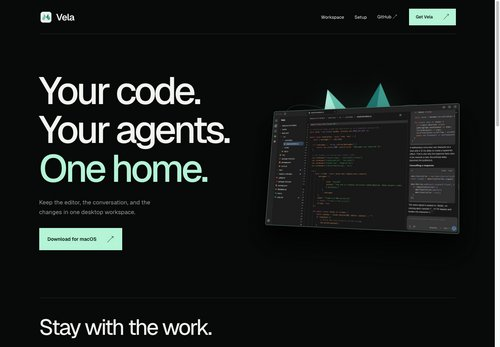
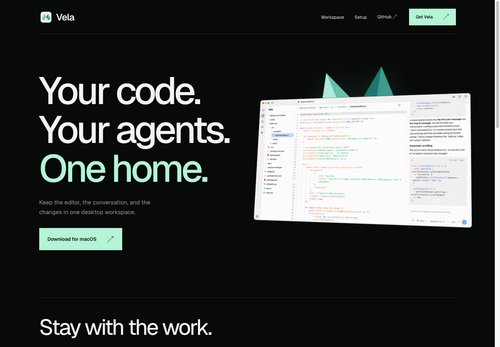
design: enlarge reference hero and refresh product imagery
Use the current light and dark Vela screenshots in Cloudroom reference #1: the light image anchors the tilted hero and the dark image becomes the unframed large product image. Scale the hero up on desktop, lift the folded mark, and update verification and gallery previews for the new composition.

Changed region(s): [[0.51, 0.2017, 0.96, 0.6916], [0.99, 0.3458, 1.0, 0.3746]]

diff --git a/design/vela-product/cloudroom/style.css b/design/vela-product/cloudroom/style.css
@@ -1,7 +1,7 @@
 @font-face{font-family:Geist;src:url(../assets/geist.woff2) format('woff2');font-weight:100 900;font-display:swap}
 *{box-sizing:border-box}html{scroll-behavior:smooth;scroll-padding-top:30px}body{--bg:#080909;--fg:#f4f5f1;--accent:#b3f6d6;--muted:#9a9e9a;--line:#2a2e2b;margin:0;background:var(--bg);color:var(--fg);font-family:Geist,Arial,sans-serif;-webkit-font-smoothing:antialiased}h1,h2,h3,p,figure{margin:0}a{color:inherit;text-decoration:none}button,select{font:inherit}button,select,summary{cursor:pointer}button{color:inherit}a:focus-visible,button:focus-visible,summary:focus-visible,select:focus-visible{outline:3px solid var(--accent);outline-offset:5px}h1{font-size:clamp(60px,7.2vw,104px);letter-spacing:-.065em;line-height:1.02;font-weight:500;text-wrap:balance}h1 em,h2 em{font-style:normal;color:var(--accent)}h2{font-size:clamp(36px,4.4vw,64px);line-height:1.08;letter-spacing:-.055em;font-weight:450;text-wrap:balance}h3{font-size:25px;font-weight:450;letter-spacing:-.035em}p{line-height:1.65;color:var(--muted)}button:hover,.button:hover{filter:brightness(1.12)}a.text-link:hover{text-decoration:underline;text-underline-offset:6px}.button{background:var(--accent);color:#0c1811;min-height:52px;display:inline-flex;align-items:center;justify-content:space-between;gap:30px;padding:16px 23px;font-size:14px;font-weight:600;border:1px solid var(--accent);border-radius:0}.button span{font-size:20px;font-weight:400}.hero-copy>p{font-size:17px;max-width:420px;margin:28px 0 32px}.site-header{max-width:1280px;margin:auto;padding:25px 40px;display:flex;align-items:center;justify-content:space-between;gap:35px;position:relative;z-index:5}.site-header:after{content:'';position:absolute;bottom:0;left:40px;right:40px;border-bottom:1px solid var(--line)}.brand{display:flex;align-items:center;gap:10px;font-size:27px;font-weight:600;letter-spacing:-1.3px}.brand img{width:39px;height:39px;display:block;border-radius:9px}.site-header nav{display:flex;align-items:center;gap:30px;margin-left:auto;font-size:13px}.site-header>.button{min-height:44px;padding:10px 18px;font-size:12px;gap:30px}.site-header>.button span{font-size:17px}main{max-width:1280px;padding:0 40px;margin:auto;min-width:0}.app-shot{min-width:0;margin:0;position:relative}.app-shot img{display:block;width:100%;height:auto;max-width:100%;border:1px solid #343b36;border-radius:7px;background:#222}.vela-icon{display:block;width:100%;height:auto}.vela-mark{display:block;width:100%;height:auto;overflow:visible}.feature-row{display:grid;grid-template-columns:repeat(3,minmax(0,1fr));gap:45px;margin:110px 0}.feature-row article{border-top:1px solid var(--line);padding-top:28px;min-width:0}.feature-row h2{font-size:27px;line-height:1.15;letter-spacing:-.04em;margin-bottom:18px}.feature-row p{font-size:14px;max-width:340px}.section{display:grid;grid-template-columns:1fr 1fr;gap:70px;align-items:center;margin:110px 0}.text-link{display:inline-flex;align-items:center;gap:10px;color:var(--accent);font-size:14px;margin-top:25px}.questions{display:grid;grid-template-columns:.9fr 1.1fr;gap:85px;border-top:1px solid var(--line);padding:75px 0;margin-top:100px}.questions h2{font-size:48px;max-width:350px}.questions details{border-bottom:1px solid var(--line);padding:22px 0}.questions details:first-child{padding-top:0}.questions summary{font-size:17px;list-style:none;display:flex;justify-content:space-between;gap:20px}.questions summary:after{content:'+';color:var(--accent);font-size:22px;line-height:1}.questions details[open] summary:after{content:'−'}.questions summary::-webkit-details-marker{display:none}.questions details p{font-size:14px;margin-top:20px;max-width:500px}.release-close{padding:80px 0;border-block:1px solid var(--line);margin-top:70px;display:flex;justify-content:space-between;align-items:center;gap:40px}.release-close h2{max-width:700px;font-size:54px}.site-footer{max-width:1280px;margin:auto;padding:35px 40px 120px;display:flex;justify-content:space-between;align-items:center;gap:40px}.site-footer nav{display:flex;gap:30px;font-size:13px;color:var(--muted)}.skip{position:fixed;left:20px;top:-100px;padding:15px;background:var(--accent);color:#111;z-index:100}.skip:focus{top:15px}.sr-only{position:absolute;width:1px;height:1px;padding:0;margin:-1px;overflow:hidden;clip:rect(0,0,0,0);white-space:nowrap;border:0}.design-controls{position:fixed;bottom:18px;left:50%;transform:translateX(-50%);z-index:25;max-width:calc(100% - 24px);display:flex;gap:4px;align-items:center;border:1px solid #464d46;border-radius:8px;background:#171c19ed;padding:6px;box-shadow:0 10px 30px #0008;backdrop-filter:blur(15px);font-size:11px}.design-controls button{border:0;background:transparent;padding:9px;min-height:34px;white-space:nowrap;border-radius:4px}.design-controls button:hover{background:#333d34}.design-controls select{color:#e8f1e9;background:#242d25;border:0;border-radius:4px;padding:9px;width:220px;min-width:0;font-size:11px}.design-controls #previous,.design-controls #next{font-size:17px;padding:6px 12px}.design-controls #hide-controls{font-size:19px}.design-controls[hidden]{display:none}#restore-controls{position:fixed;bottom:15px;right:18px;border:1px solid #566358;background:#111914;color:#dce8dd;padding:10px 14px;border-radius:5px;z-index:25;font-size:11px}#restore-controls[hidden]{display:none}dialog{width:min(1180px,calc(100% - 30px));max-height:88vh;border:1px solid #4d5b4e;padding:30px;border-radius:10px;background:#0d130f;color:#f0f5ec}dialog::backdrop{background:#000c;backdrop-filter:blur(8px)}.gallery-heading{display:flex;justify-content:space-between;align-items:center;margin-bottom:25px}.gallery-heading h2{font-size:36px}.gallery-heading button{border:1px solid #455346;background:transparent;width:40px;height:40px;border-radius:50%;font-size:25px}#gallery-grid{display:grid;grid-template-columns:repeat(3,minmax(0,1fr));gap:16px}.gallery-card{display:block;min-width:0;border:1px solid #2e3b30;border-radius:4px;overflow:hidden;background:#141c15}.gallery-card:hover{border-color:#a3d4b2}.gallery-card[aria-current]{outline:2px solid var(--accent);outline-offset:-2px}.gallery-card img{display:block;width:100%;height:auto;aspect-ratio:1.44;background:#080909;object-fit:cover;object-position:top}.gallery-card h3{font-size:15px;padding:18px;font-weight:450;letter-spacing:-.4px}
 /* Closest to the reference: a direct statement and a floating desktop. */
-.home-hero{display:grid;grid-template-columns:1fr 1fr;gap:70px;align-items:center;min-height:760px;padding:80px 0 110px}.home-hero h1{font-size:clamp(68px,7.7vw,110px)}.home-hero .hero-copy>p{max-width:360px}.home-art{position:relative;min-width:0;height:490px;isolation:isolate;display:flex;align-items:center;justify-content:center}.home-art>.vela-mark{position:absolute;width:240px;top:20px;left:calc(50% - 120px);filter:drop-shadow(0 10px 40px #71eac92b);transform:rotate(-7deg)}.home-screen{position:absolute;bottom:50px;width:100%;transform:perspective(1100px) rotateY(-16deg) rotateX(9deg);box-shadow:0 45px 70px #000b}.home-screen .app-shot img{border-color:#618c73;border-radius:5px}.home-orbit{position:absolute;border:1px solid #325a42;border-radius:50%;width:500px;height:180px;left:50%;top:50%;transform:translate(-50%,-50%) rotate(-35deg);z-index:-1}.orbit-two{transform:translate(-50%,-50%) rotate(35deg);border-color:#254232}.home-product{padding-top:50px;border-top:1px solid var(--line)}.home-product>p{font-size:17px;max-width:500px;margin:25px 0 45px}.home-product>.app-shot{padding:12px;background:#131a15;border:1px solid #304336}
+.home-hero{display:grid;grid-template-columns:1fr 1fr;gap:70px;align-items:center;min-height:760px;padding:80px 0 110px}.home-hero h1{font-size:clamp(68px,7.7vw,110px)}.home-hero .hero-copy>p{max-width:360px}.home-art{position:relative;min-width:0;height:490px;isolation:isolate;display:flex;align-items:center;justify-content:center}.home-art>.vela-mark{position:absolute;width:250px;top:-28px;left:calc(50% - 125px);filter:drop-shadow(0 10px 40px #71eac92b);transform:rotate(-7deg)}.home-screen{position:absolute;bottom:50px;width:112%;transform:perspective(1100px) rotateY(-12deg) rotateX(7deg)}.home-screen .app-shot img{border:0;border-radius:0;background:transparent}.home-orbit{position:absolute;border:1px solid #325a42;border-radius:50%;width:500px;height:180px;left:50%;top:50%;transform:translate(-50%,-50%) rotate(-35deg);z-index:-1}.orbit-two{transform:translate(-50%,-50%) rotate(35deg);border-color:#254232}.home-product{padding-top:50px;border-top:1px solid var(--line)}.home-product>p{font-size:17px;max-width:500px;margin:25px 0 45px}.home-product>.app-shot img{border:0;border-radius:0;background:none}
 /* Broad, centered and image-led, with space around a single large window. */
 .d2 .wide-hero{text-align:center;padding-top:100px}.wide-hero h1{font-size:clamp(60px,6.6vw,95px)}.wide-hero .hero-copy>p{margin:27px auto 32px;max-width:510px}.wide-screen{margin-top:70px;padding:10px;background:#15261d;border:1px solid #294b36;box-shadow:0 0 100px -20px #53bd8a22}.wide-story{display:grid;grid-template-columns:1.2fr 1fr;gap:100px;margin:120px 0}.wide-story h2{font-size:54px}.wide-story p{font-size:17px}.d2 .feature-row{gap:70px}.d2 .questions{grid-template-columns:1fr 1fr}
 /* An expansive heading sits above an asymmetric product and brand block. */
@@ -12,6 +12,7 @@
 .space-hero{display:grid;grid-template-columns:1fr 1fr;gap:70px;align-items:center;min-height:740px;padding:80px 0}.space-hero h1{font-size:clamp(66px,7.4vw,106px)}.space-art{position:relative;aspect-ratio:1;isolation:isolate;perspective:1000px}.fold-orbit{position:absolute;width:80%;top:12%;left:10%;transform:rotate(-12deg);opacity:.17}.fold-orbit .vela-mark path{fill:none;stroke:#82e6c4;stroke-width:.45}.fold-1{transform:scale(.85) translateY(20px) rotate(-12deg);opacity:.25}.fold-2{transform:scale(.7) translateY(45px) rotate(-12deg);opacity:.4}.fold-3{transform:scale(.55) translateY(85px) rotate(-12deg);opacity:.6}.fold-4{transform:scale(.4) translateY(150px) rotate(-12deg);opacity:.85}.fold-5{transform:scale(.25) translateY(290px) rotate(-12deg);opacity:1}.fold-5 .vela-mark path{fill:#b3f6d6;stroke:none}.space-product{padding-top:30px}.space-product>div{display:flex;gap:80px;align-items:end;justify-content:space-between;margin-bottom:45px}.space-product h2{max-width:650px}.space-product p{max-width:320px;font-size:16px}.space-product .app-shot{padding:20px;background:#131d16;border-radius:9px}.space-story{display:grid;grid-template-columns:1fr 1fr;gap:100px;margin:120px 0}.space-story p{font-size:17px}.space-story p+p{margin-top:25px}
 @media(max-width:1000px){.site-header{gap:22px}.site-header nav{gap:22px}.home-hero{gap:30px;min-height:660px}.home-hero h1{font-size:76px}.home-art{height:400px}.home-art>.vela-mark{width:180px;left:calc(50% - 90px)}.home-orbit{width:380px}.home-screen{bottom:40px}.place-hero{gap:60px}.place-hero h1{font-size:100px}.place-copy>p{font-size:17px}.place-product-copy{gap:35px}.close-title{gap:45px}.close-title h1{font-size:85px}.close-stage{grid-template-columns:1fr 150px;gap:20px}.close-mark{padding:25px}.space-hero{gap:30px;min-height:650px}.space-hero h1{font-size:78px}.space-product>div{gap:35px}.wide-story,.close-story,.space-story{gap:50px}.wide-story h2{font-size:46px}.questions{gap:50px}.questions h2{font-size:40px}.feature-row{gap:28px}.release-close h2{font-size:44px}}
 @media(max-width:700px){h1{font-size:clamp(48px,11.5vw,72px);letter-spacing:-.055em}h2{font-size:36px}main{padding:0 22px}.site-header{padding:20px 22px;gap:18px}.site-header:after{left:22px;right:22px}.brand{font-size:23px;gap:8px}.brand img{width:32px;height:32px}.site-header nav{gap:15px;font-size:11px}.site-header nav a:first-child{display:none}.site-header>.button{display:none}.button{font-size:13px;min-height:49px;padding:14px 19px;gap:25px}.hero-copy>p{font-size:15px;max-width:100%;margin:25px 0 30px}.feature-row{grid-template-columns:1fr;gap:35px;margin:65px 0}.feature-row h2{font-size:26px;margin-bottom:15px}.feature-row p{font-size:14px;max-width:100%}.feature-row article{padding-top:22px}.section{grid-template-columns:1fr;gap:35px;margin:70px 0}.questions{grid-template-columns:1fr;gap:35px;padding:45px 0;margin-top:65px}.questions h2{font-size:37px}.questions summary{font-size:15px}.questions details p{font-size:13px}.release-close{display:block;padding:45px 0;margin-top:50px}.release-close h2{font-size:39px;margin-bottom:30px}.site-footer{padding:30px 22px 120px;gap:25px;flex-wrap:wrap}.site-footer nav{gap:20px;font-size:12px}.app-shot img{border-radius:4px}.design-controls{bottom:12px;width:calc(100% - 24px);max-width:480px;gap:2px}.design-controls select{width:100%;flex:1;font-size:10px;padding:8px 4px}.design-controls button{font-size:10px;padding:7px}.design-controls #previous,.design-controls #next{padding:7px;font-size:16px}.design-controls #hide-controls{padding:6px;font-size:17px}dialog{padding:20px}.gallery-heading h2{font-size:30px}#gallery-grid{grid-template-columns:repeat(2,minmax(0,1fr));gap:10px}.gallery-card h3{font-size:13px;padding:12px;overflow-wrap:anywhere}
-.home-hero{grid-template-columns:1fr;gap:20px;padding:65px 0 35px;min-height:0}.home-hero h1{font-size:clamp(60px,14vw,84px)}.home-hero .hero-copy>p{max-width:330px}.home-art{height:350px;max-width:450px;width:100%;margin:auto;overflow:clip}.home-art>.vela-mark{width:145px;top:5px;left:calc(50% - 72px)}.home-screen{width:88%;bottom:35px}.home-orbit{width:310px;height:120px;top:45%}.home-product{padding-top:35px}.home-product>p{font-size:15px;margin:22px 0 30px}.home-product>.app-shot{padding:7px}.d2 .wide-hero{padding-top:65px}.wide-hero h1{font-size:clamp(46px,10.7vw,72px)}.wide-hero .hero-copy>p{font-size:15px;margin:25px auto 30px}.wide-screen{margin-top:45px;padding:6px}.wide-story{grid-template-columns:1fr;gap:25px;margin:65px 0}.wide-story h2{font-size:37px}.wide-story p{font-size:15px}.d2 .feature-row{gap:35px}.d2 .questions{grid-template-columns:1fr}.close-hero{padding-top:65px}.close-title{display:block;margin-bottom:35px}.close-title h1{font-size:clamp(58px,13vw,85px)}.close-title>div{max-width:100%;margin-top:28px}.close-title p{font-size:15px;max-width:330px}.close-stage{grid-template-columns:minmax(0,1fr) 65px;gap:12px}.close-mark{padding:12px}.close-story{grid-template-columns:1fr;gap:25px;margin:65px 0}.close-story h2{font-size:38px}.close-story p{font-size:15px}.d3 .feature-row{margin:55px 0;padding:30px 0;gap:30px}.place-hero{grid-template-columns:1fr;gap:35px;padding:55px 0 50px}.place-hero>div:first-child>.vela-mark{width:60px;margin-bottom:30px}.place-hero h1{font-size:clamp(76px,18vw,114px)}.place-copy>p{font-size:17px;max-width:340px;margin-bottom:30px}.place-product{padding:12px}.place-product-copy{grid-template-columns:1fr;gap:20px;margin-top:30px;padding:0 5px 10px}.place-product h2{font-size:32px}.place-product p{font-size:14px}.d4 .feature-row{gap:35px}.space-hero{grid-template-columns:1fr;gap:15px;padding:60px 0 15px;min-height:0}.space-hero h1{font-size:clamp(59px,13vw,84px)}.space-art{max-width:370px;width:100%;margin:auto}.space-product>div{display:block;margin-bottom:30px}.space-product h2{font-size:36px}.space-product p{max-width:100%;font-size:15px;margin-top:25px}.space-product .app-shot{padding:8px}.space-story{grid-template-columns:1fr;gap:25px;margin:70px 0}.space-story p{font-size:15px}}
+.home-hero{grid-template-columns:1fr;gap:20px;padding:65px 0 35px;min-height:0}.home-hero h1{font-size:clamp(60px,14vw,84px)}.home-hero .hero-copy>p{max-width:330px}.home-art{height:350px;max-width:450px;width:100%;margin:auto;overflow:clip}.home-art>.vela-mark{width:145px;top:5px;left:calc(50% - 72px)}.home-screen{width:88%;bottom:35px}.home-orbit{width:310px;height:120px;top:45%}.home-product{padding-top:35px}.home-product>p{font-size:15px;margin:22px 0 30px}.d2 .wide-hero{padding-top:65px}.wide-hero h1{font-size:clamp(46px,10.7vw,72px)}.wide-hero .hero-copy>p{font-size:15px;margin:25px auto 30px}.wide-screen{margin-top:45px;padding:6px}.wide-story{grid-template-columns:1fr;gap:25px;margin:65px 0}.wide-story h2{font-size:37px}.wide-story p{font-size:15px}.d2 .feature-row{gap:35px}.d2 .questions{grid-template-columns:1fr}.close-hero{padding-top:65px}.close-title{display:block;margin-bottom:35px}.close-title h1{font-size:clamp(58px,13vw,85px)}.close-title>div{max-width:100%;margin-top:28px}.close-title p{font-size:15px;max-width:330px}.close-stage{grid-template-columns:minmax(0,1fr) 65px;gap:12px}.close-mark{padding:12px}.close-story{grid-template-columns:1fr;gap:25px;margin:65px 0}.close-story h2{font-size:38px}.close-story p{font-size:15px}.d3 .feature-row{margin:55px 0;padding:30px 0;gap:30px}.place-hero{grid-template-columns:1fr;gap:35px;padding:55px 0 50px}.place-hero>div:first-child>.vela-mark{width:60px;margin-bottom:30px}.place-hero h1{font-size:clamp(76px,18vw,114px)}.place-copy>p{font-size:17px;max-width:340px;margin-bottom:30px}.place-product{padding:12px}.place-product-copy{grid-template-columns:1fr;gap:20px;margin-top:30px;padding:0 5px 10px}.place-product h2{font-size:32px}.place-product p{font-size:14px}.d4 .feature-row{gap:35px}.space-hero{grid-template-columns:1fr;gap:15px;padding:60px 0 15px;min-height:0}.space-hero h1{font-size:clamp(59px,13vw,84px)}.space-art{max-width:370px;width:100%;margin:auto}.space-product>div{display:block;margin-bottom:30px}.space-product h2{font-size:36px}.space-product p{max-width:100%;font-size:15px;margin-top:25px}.space-product .app-shot{padding:8px}.space-story{grid-template-columns:1fr;gap:25px;margin:70px 0}.space-story p{font-size:15px}}
 @media(max-width:420px){#gallery-grid{grid-template-columns:1fr}.gallery-card h3{font-size:17px;padding:16px}.design-controls select{font-size:9px}.design-controls #browse{font-size:9px;padding:6px}.design-controls #previous,.design-controls #next{padding:6px}.site-header nav{font-size:11px}.home-art{height:290px}.home-screen{bottom:20px}.home-art>.vela-mark{width:125px;left:calc(50% - 62px)}.home-orbit{width:270px}.close-title h1{font-size:55px}.close-stage{grid-template-columns:1fr}.close-mark{height:90px;padding:16px}.close-mark>.vela-mark{width:80px}.place-product h2{font-size:28px}}
 @media(prefers-reduced-motion:reduce){html{scroll-behavior:auto}*,*:before,*:after{animation:none!important;transition:none!important}}
+@media(min-width:1310px){.home-screen{width:118%}}

diff --git a/design/vela-product/cloudroom/fragments.js b/design/vela-product/cloudroom/fragments.js
@@ -2,7 +2,30 @@
   const repository = 'https://github.com/Tsohnle95/vela';
   const assets = window.velaAssetBase || '../assets';
   const cta = (text = 'Download for macOS') => `<a class="button" href="${repository}/releases" target="_blank" rel="noopener">${text}<span aria-hidden="true">↗</span></a>`;
-  const shot = (classes = '') => `<figure class="app-shot ${classes}"><img src="${assets}/vela.png" width="1420" height="887" alt="Vela showing a repository, JavaScript editor, and OpenCode conversation side by side."></figure>`;
+  const shots = {
+    default: {
+      file: 'vela',
+      width: 1420,
+      height: 887,
+      alt: 'Vela showing a repository, JavaScript editor, and OpenCode conversation side by side.',
+    },
+    light: {
+      file: 'vela-light',
+      width: 1619,
+      height: 971,
+      alt: 'Vela in a light theme, with the file tree, a chat controller in the editor, and an OpenCode conversation in one window.',
+    },
+    dark: {
+      file: 'vela-dark',
+      width: 1619,
+      height: 971,
+      alt: 'Vela in a dark theme, with the file tree, a chat controller in the editor, and an OpenCode conversation in one window.',
+    },
+  };
+  const shot = (classes = '', variant = 'default') => {
+    const { file, width, height, alt } = shots[variant];
+    return `<figure class="app-shot ${classes}"><img src="${assets}/${file}.png" width="${width}" height="${height}" alt="${alt}"></figure>`;
+  };
   const icon = (classes = '') => `<img class="vela-icon ${classes}" src="${assets}/icon.png" width="1024" height="1024" alt="Vela">`;
   const mark = (classes = '') => `<svg class="vela-mark ${classes}" viewBox="0 0 200 160" aria-hidden="true"><path fill="#adedd9" d="M36 8 100 92 31 154 0 139Z"/><path fill="#62c4ad" d="M36 8 100 92 31 154 67 120Z"/><path fill="#b5f4dc" d="m164 8 36 131-31 15-69-62Z"/><path fill="#389d8e" d="m164 8 36 131-31 15-36-34Z"/><path fill="#18786f" d="m164 8-31 112-33-28Z"/></svg>`;
   const copy = (title, description = 'Your editor, OpenCode agents, terminal, and live diffs. Together in one desktop workspace.') => `<div class="hero-copy"><h1>${title}</h1><p>${description}</p>${cta()}</div>`;

diff --git a/design/vela-product/cloudroom/directions-a.js b/design/vela-product/cloudroom/directions-a.js
@@ -4,7 +4,7 @@
   window.velaDirections.push(
     {
       id: 1, name: 'Home for the work',
-      body: () => `<section class="home-hero">${copy('Your code.<br> Your agents.<br> <em>One home.</em>', 'Keep the editor, the conversation, and the changes in one desktop workspace.')}<div class="home-art"><div class="home-orbit orbit-one"></div><div class="home-orbit orbit-two"></div>${mark()}<div class="home-screen">${shot()}</div></div></section><section class="home-product"><h2>Stay with the work.</h2><p>Open a repository. Give OpenCode a task. Follow the changes beside your code.</p>${shot()}</section>${featureRow()}${faq()}`
+      body: () => `<section class="home-hero">${copy('Your code.<br> Your agents.<br> <em>One home.</em>', 'Keep the editor, the conversation, and the changes in one desktop workspace.')}<div class="home-art"><div class="home-orbit orbit-one"></div><div class="home-orbit orbit-two"></div>${mark()}<div class="home-screen">${shot('window-shot', 'light')}</div></div></section><section class="home-product"><h2>Stay with the work.</h2><p>Open a repository. Give OpenCode a task. Follow the changes beside your code.</p>${shot('window-shot', 'dark')}</section>${featureRow()}${faq()}`
     },
     {
       id: 2, name: 'Everything in view',

diff --git a/design/vela-product/cloudroom/iterations/README.md b/design/vela-product/cloudroom/iterations/README.md
@@ -4,10 +4,10 @@ Open [the collection](index.html) directly from disk. It contains **30 new
 iterations** and retains **#1 and #2 as references**. The earlier 20-design
 collection remains available from the directory.
 
-- **Reference #1** is the exact original saved design from commit `7c0a724b`,
-  including its original title sizing, spacing, image perspective, frames,
-  folded mark, and orbits. **Reference #2** retains the corrected title sizing
-  and screenshot cleanup.
+- **Reference #1** keeps its original layout, title sizing, spacing, folded
+  mark, and orbits from commit `7c0a724b`, updated with the current light and
+  dark product screenshots and a larger hero image. **Reference #2** retains
+  the corrected title sizing and screenshot cleanup.
 - **1.01–1.15** are new split-layout iterations of #1 (URL IDs 21–35).
 - **2.01–2.15** are new centered, wide-product iterations of #2 (IDs 36–50).
 - Use Left/Right outside interactive controls to browse. The iteration
@@ -29,21 +29,23 @@ The actual Cloudroom headline scale was checked in its public stylesheet:
 The shared refinements use an 80px desktop cap, weight 550, line-height 1.04,
 and -4px tracking, with the source’s 1080px, 800px, and 640px responsive
 breakpoints. Individual iterations do not override the primary type scale.
-Reference #1 is intentionally exempt so it stays identical to the original.
+Reference #1 keeps its original 110px desktop cap.
 
-Screenshots are the unmodified real Vela image. Reference #1 retains its exact
-original image frames, perspective, folded mark, and orbit artwork. The 30 new
-iterations and reference #2 keep their unframed screenshot treatment. Their
-presentation effects are neutral elevation, spacing, and occasional slight
-perspective. Palettes change page colors and actions; they do not recolor
-the screenshot or the existing app icon. The previous prohibition on
-decorative labels, annotations, and design commentary still applies.
+Screenshots are unmodified real Vela product images. Reference #1 uses the
+current light and dark screenshots, with its hero image enlarged and unframed;
+its folded mark and orbit artwork remain. The 30 new iterations and reference
+#2 keep their corrected unframed screenshot treatment. Their presentation
+effects are neutral elevation, spacing, and occasional slight perspective.
+Palettes change page colors and actions; they do not recolor the screenshot or
+the existing app icon. The previous prohibition on decorative labels,
+annotations, and design commentary still applies.
 
 `palettes.js` owns the color tokens. `model.js` owns shared factual fragments
 and the two references. `layouts-a/b/c` own the 30 compositions. `app.js` owns
 selection, independent palette choices, keyboard navigation, and history.
-The parent `refinements.css` explicitly excludes #1 from later refinements, so
-the original #1 URL and its palette-enabled reference use the original styles.
+The parent `refinements.css` explicitly excludes #1 from the later type and
+screenshot refinements, so the #1 URL and its palette-enabled reference keep
+their own layout styles.
 
 Run `node design/vela-product/cloudroom/iterations/verify.mjs` under Node
 22.23.2 from the repository root. Add `--refresh-previews` to explicitly
@@ -52,4 +54,6 @@ The check otherwise writes only into a fresh temporary directory and uses
 an isolated Electron profile. See [QA.md](QA.md).
 
 `node design/vela-product/cloudroom/iterations/verify-reference.mjs` independently
-extracts the original from Git and checks #1 pixel-for-pixel at six widths.
+extracts the original from Git and checks that #1 keeps its original type and
+spacing at six widths, uses the current light hero and dark product screenshots,
+and renders the secondary image without a frame.

diff --git a/design/vela-product/cloudroom/iterations/QA.md b/design/vela-product/cloudroom/iterations/QA.md
@@ -1,15 +1,16 @@
 # Verification
 
-Checked October 23, 2026 under Node 22.23.2 with isolated Electron profiles.
+Checked October 25, 2026 under Node 22.23.2 with isolated Electron profiles.
 
 - 30 new iterations: 15 from #1 and 15 from #2, plus both retained references.
 - All 32 pages rendered at 1440, 1024, 768, 390, and 320 CSS pixels: 160
   layouts checked for horizontal overflow, offscreen headlines/actions/images,
   image decoding, and the absence of frames/added artwork in the 30 new
-  iterations. Reference #1 deliberately retains all of its original styling.
+  iterations. Reference #1 deliberately keeps its original layout and type
+  with the current screenshots.
 - Headline size, weight, and line-height checked against Cloudroom’s measured
   responsive scale at each width for the 30 new iterations and reference #2.
-  Reference #1 restores its original 110px desktop cap as part of exact parity.
+  Reference #1 keeps its original 110px desktop cap.
 - All 32 designs exercised with all 24 palettes: 768 page/palette combinations.
   Page foreground/background and primary action colors are checked against
   the selected tokens. Every palette meets 4.5:1 for body/description/button
@@ -26,11 +27,12 @@ Checked October 23, 2026 under Node 22.23.2 with isolated Electron profiles.
   families. All directory thumbnails come from actual renders.
 - `verify-reference.mjs` extracts #1 from original commit `7c0a724b` and renders
   it alongside the current reference in fresh windows at 1904, 1440, 1024, 768,
-  390, and 320 pixels. All six comparisons report identical geometry and zero
-  differing pixels. Fresh windows avoid transient resize-time image resampling.
-- The original #1 URL uses the same original styles; #2 retains its corrected
-  80px desktop cap and unframed images. Palette controls remain separate from
-  the product rendering during the original/current image comparison.
+  390, and 320 pixels. All six comparisons report identical headline, hero, and
+  art geometry, the current light and dark screenshots, and no secondary-image
+  frame. Fresh windows avoid transient resize-time image resampling.
+- The #1 URL keeps its original layout styles with the current imagery; #2
+  retains its corrected 80px desktop cap and unframed images. Palette controls
+  remain separate from the product rendering during the reference comparison.
 
 Normal history/reload checks run before the deliberately dense palette matrix.
 This keeps normal navigation verification separate from Chromium’s history

diff --git a/design/vela-product/cloudroom/README.md b/design/vela-product/cloudroom/README.md
@@ -1,8 +1,8 @@
 # Vela release directions
 
-Reference #1 exactly reproduces its original design from commit `7c0a724b`,
-including the original type, perspective, spacing, artwork, and frames.
-Reference #2 and the [thirty further iterations with 24 palettes](iterations/index.html)
+Reference #1 keeps its original layout and type from commit `7c0a724b`,
+updated with the current light and dark product screenshots and a larger hero
+image. Reference #2 and the [thirty further iterations with 24 palettes](iterations/index.html)
 retain their corrected Cloudroom-scale typography and screenshot treatments.
 keep both as references, with fifteen new compositions from each direction.
 

diff --git a/design/vela-product/cloudroom/QA.md b/design/vela-product/cloudroom/QA.md
@@ -1,6 +1,6 @@
 # Local verification
 
-Validated October 23, 2026 using Node 22.23.2 and an isolated Electron profile.
+Validated October 25, 2026 using Node 22.23.2 and an isolated Electron profile.
 
 - All 20 new designs rendered at 1440, 1024, 768, 390, and 320 CSS pixels:
   100 layouts, zero horizontal-overflow failures, no offscreen primary
